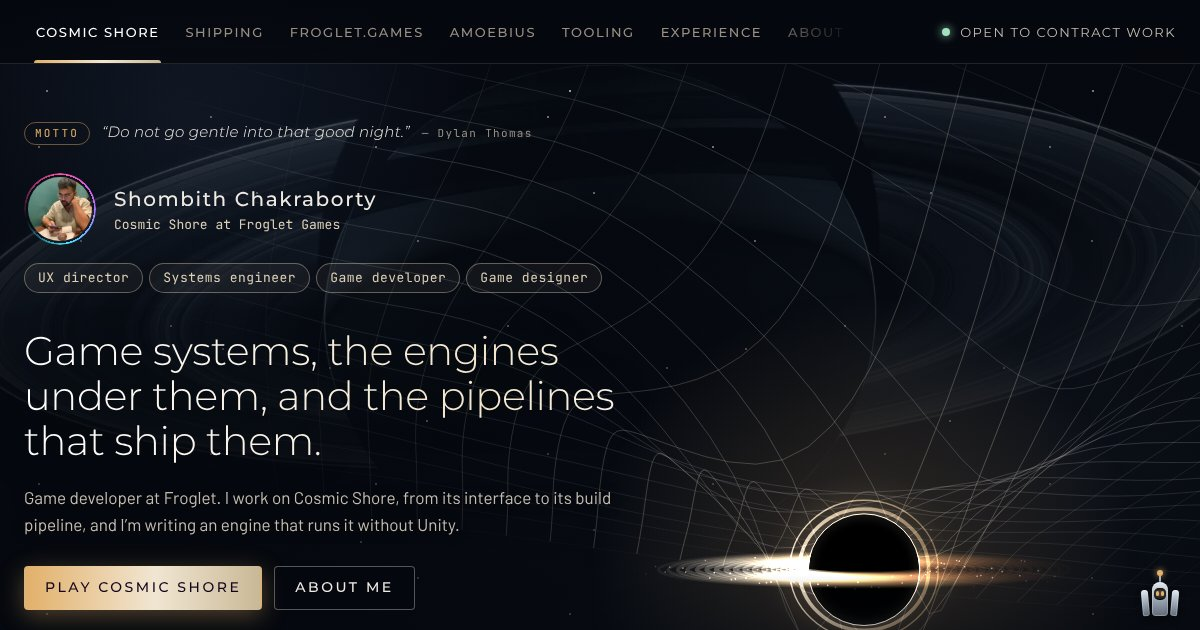
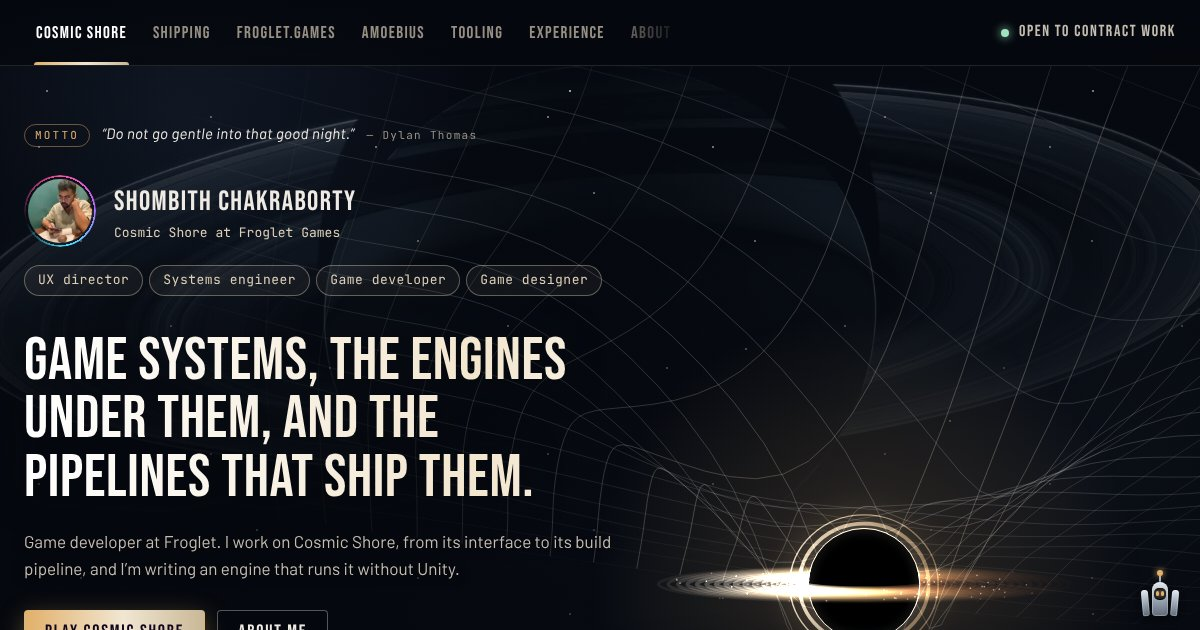
Movie-poster type: Bebas Neue headings over Barlow
Bebas Neue for the name, headline, tabs, buttons, section and card
titles, the footer line and the opening motto; Barlow for body text and
the italic motto line; JetBrains Mono stays for hashes and labels.
Single weight with font-synthesis off, sizes raised to suit the
condensed face. Montserrat removed.

Claude-Session: https://claude.ai/code/session_01HWHBvmCxCcuhrWSnxCt8HA

diff --git a/style.css b/style.css
@@ -19,7 +19,7 @@
   --live:        #9fe3c0;   /* availability dot */
   --gradient:    linear-gradient(90deg, #e2b06a 0%, #f1e6d2 55%, #c9b896 100%);
 
-  --font-display: "Montserrat", "Segoe UI", system-ui, sans-serif;
+  --font-display: "Bebas Neue", "Oswald", Impact, "Arial Narrow", sans-serif;
   --font-body:    "Barlow", system-ui, -apple-system, "Segoe UI", sans-serif;
   --font-mono:    "JetBrains Mono", ui-monospace, "SFMono-Regular", Menlo, monospace;
 
@@ -914,3 +914,37 @@ html.intro .hero-text > *, html.intro .hero-lede { animation-play-state: paused;
 .tile:nth-child(7n+5) { --card-img: url("images/bg/earth.webp");      --card-pos: 50% 85%; }
 .tile:nth-child(7n+6) { --card-img: url("images/bg/andromeda.webp");  --card-pos: 50% 50%; }
 .tile:nth-child(7n+7) { --card-img: url("images/bg/bh-lensing.webp"); --card-pos: 50% 50%; }
+
+
+/* ==========================================================================
+   Type: movie-poster headings. Bebas Neue has a single weight and no
+   italic, so every heading uses 400 and the browser never fakes bold.
+   ========================================================================== */
+.hero-lede, .panel-head h2, .tile h3, .tab, .btn, .player-name, a.tile.live strong,
+.footer-line, .project h4, .intro-quote blockquote, .job-head h3, .subhead, .motto-label, .status,
+.prompts a, .toolbox summary, .post-title {
+  font-weight: 400;
+  font-synthesis: none;
+}
+.hero-lede { font-size: 3.75rem; line-height: 0.98; letter-spacing: 0.01em; }
+.player-name { font-size: 1.75rem; letter-spacing: 0.05em; }
+.tab { font-size: 1.0625rem; letter-spacing: 0.08em; padding-top: 20px; padding-bottom: 19px; }
+.btn { font-size: 1.125rem; letter-spacing: 0.1em; }
+.panel-head h2 { font-size: 2.25rem; letter-spacing: 0.06em; }
+.tile h3 { font-size: 1.5rem; letter-spacing: 0.03em; line-height: 1.05; }
+a.tile.live strong { font-size: 1.75rem; letter-spacing: 0.04em; }
+.job-head h3 { font-size: 1.625rem; letter-spacing: 0.03em; }
+.project h4 { font-size: 1.3125rem; letter-spacing: 0.03em; }
+.footer-line { font-size: 1.875rem; letter-spacing: 0.05em; }
+.status { font-size: 1rem; letter-spacing: 0.1em; }
+.prompts a { font-size: 1.125rem; letter-spacing: 0.06em; }
+.subhead { font-size: 1.125rem; letter-spacing: 0.12em; }
+.toolbox summary { font-size: 1.125rem; letter-spacing: 0.08em; }
+.motto q { font-family: var(--font-body); font-style: italic; font-weight: 400; font-size: 0.9375rem; }
+.intro-quote blockquote { font-style: normal; font-size: clamp(2rem, 5.4vw, 3.75rem); letter-spacing: 0.05em; line-height: 1; }
+@media (max-width: 960px) { .hero-lede { font-size: 3rem; } }
+@media (max-width: 640px) {
+  .hero-lede { font-size: 2.5rem; }
+  .panel-head h2 { font-size: 1.75rem; }
+  .tab { font-size: 0.9375rem; }
+}

diff --git a/404.html b/404.html
@@ -12,7 +12,7 @@
   <link rel="icon" href="/shombith-portfolio/favicon.svg" type="image/svg+xml" />
   <link rel="preconnect" href="https://fonts.googleapis.com" />
   <link rel="preconnect" href="https://fonts.gstatic.com" crossorigin />
-  <link href="https://fonts.googleapis.com/css2?family=Barlow:wght@400;500;600&amp;family=JetBrains+Mono:wght@400;500&amp;family=Montserrat:ital,wght@0,300;0,400;0,500;0,600;1,300&amp;display=swap" rel="stylesheet" />
+  <link href="https://fonts.googleapis.com/css2?family=Barlow:ital,wght@0,400;0,500;0,600;1,400&amp;family=Bebas+Neue&amp;family=JetBrains+Mono:wght@400;500&amp;display=swap" rel="stylesheet" />
   <link rel="stylesheet" href="/shombith-portfolio/style.css" />
   <style>
     .lost { min-height: 70vh; display: flex; flex-direction: column; justify-content: center; padding-top: 96px; padding-bottom: 96px; }

diff --git a/index.html b/index.html
@@ -52,7 +52,7 @@
 
   <link rel="preconnect" href="https://fonts.googleapis.com" />
   <link rel="preconnect" href="https://fonts.gstatic.com" crossorigin />
-  <link href="https://fonts.googleapis.com/css2?family=Barlow:wght@400;500;600&amp;family=JetBrains+Mono:wght@400;500&amp;family=Montserrat:ital,wght@0,300;0,400;0,500;0,600;1,300&amp;display=swap" rel="stylesheet" />
+  <link href="https://fonts.googleapis.com/css2?family=Barlow:ital,wght@0,400;0,500;0,600;1,400&amp;family=Bebas+Neue&amp;family=JetBrains+Mono:wght@400;500&amp;display=swap" rel="stylesheet" />
   <link rel="stylesheet" href="style.css" />
 </head>
 <body>
